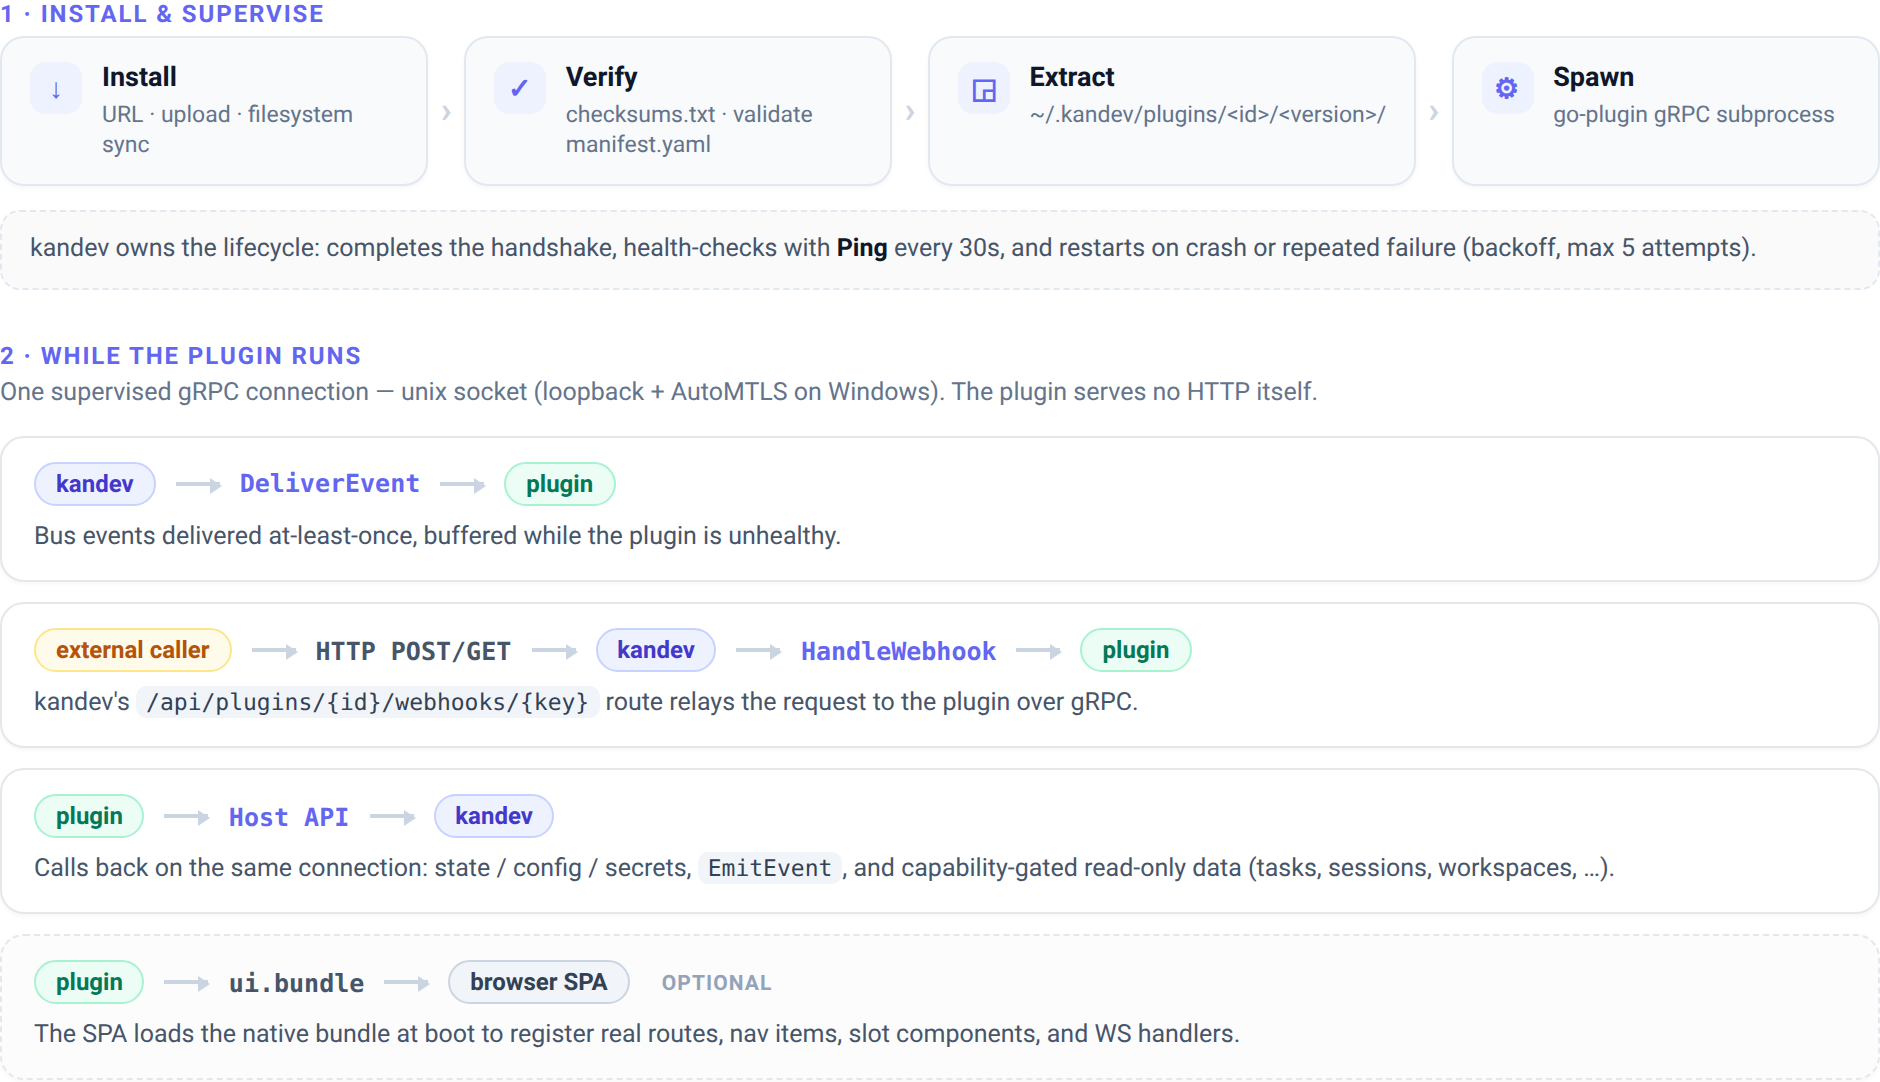
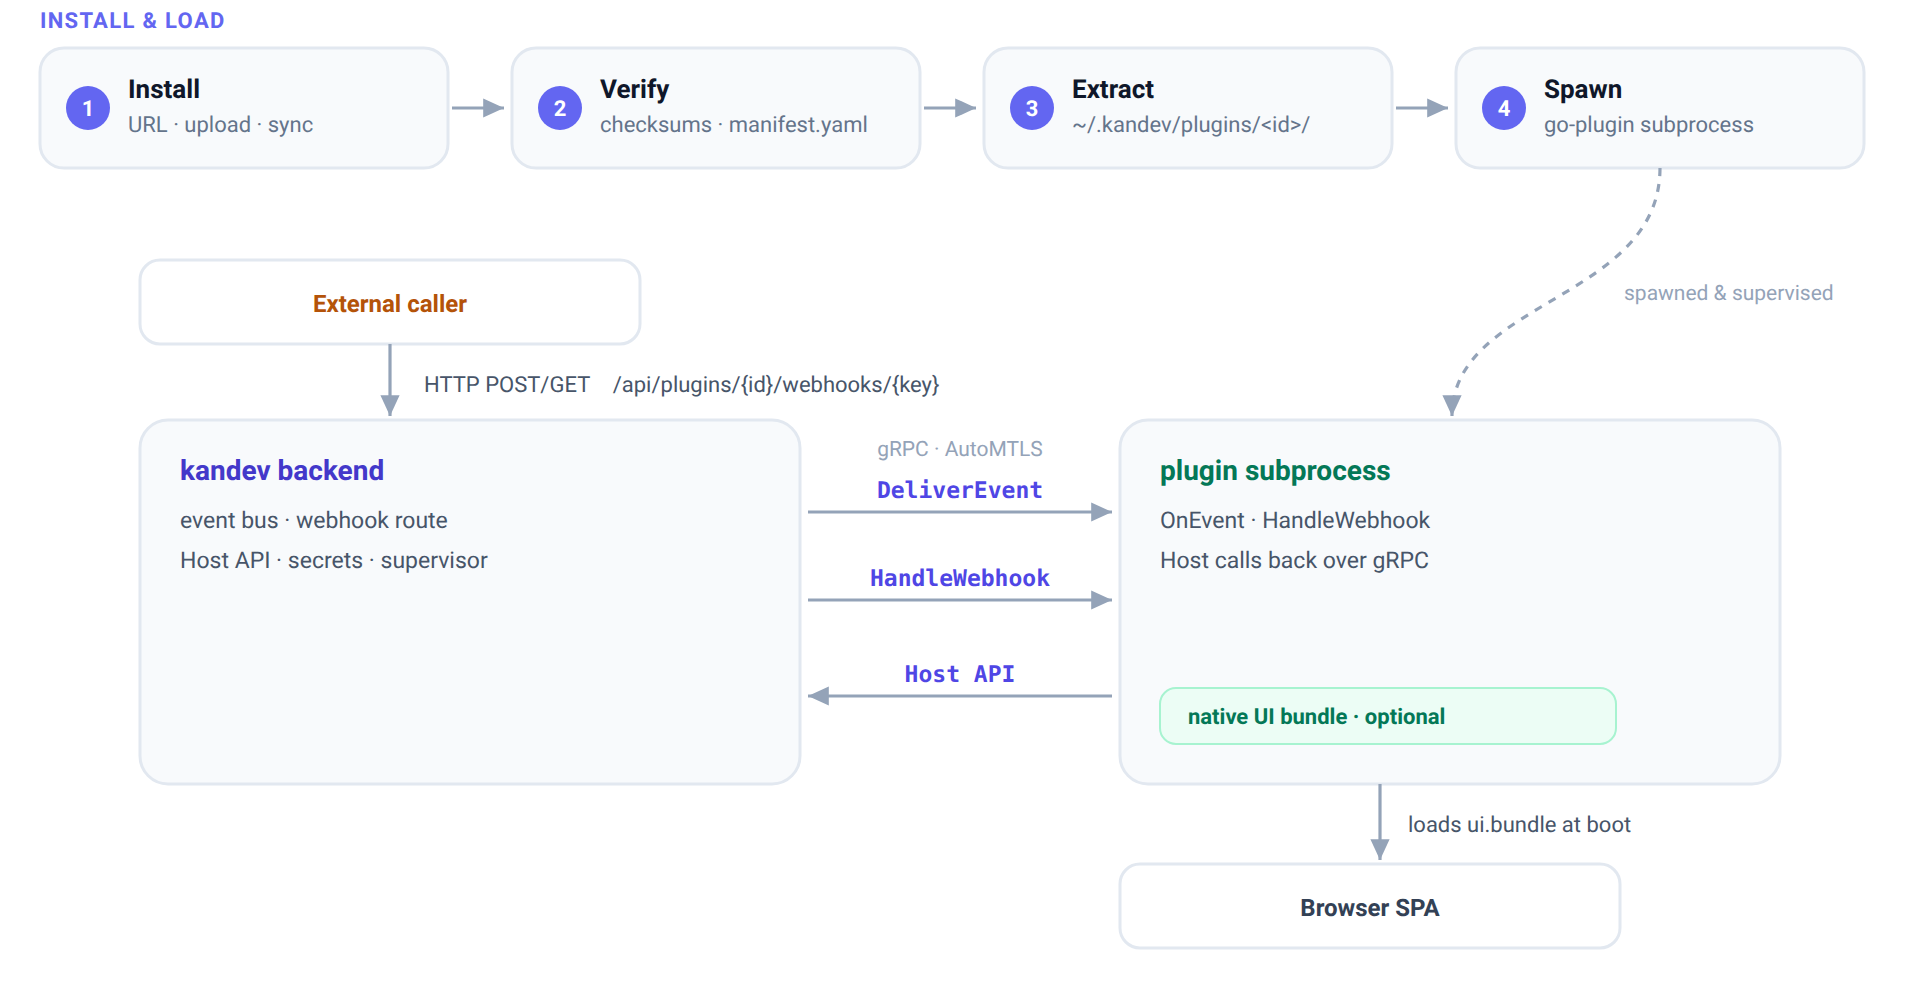
docs: make the how-it-works figure a real box-and-arrow diagram
The previous figure read as a list of rows. Replace it with a hand-drawn
SVG architecture diagram: the install pipeline feeds a spawned plugin
subprocess, then kandev and the plugin communicate over one gRPC
connection (DeliverEvent, HandleWebhook, and the plugin's Host API
callbacks), with the external webhook caller and the browser SPA as
edge nodes. Source lives in the capture spec's ARCH_HTML.

diff --git a/apps/web/e2e/tests/plugins/plugins-docs-screenshots.spec.ts b/apps/web/e2e/tests/plugins/plugins-docs-screenshots.spec.ts
@@ -41,63 +41,49 @@ const PLUGIN_ROUTE = process.env.DOCS_PLUGIN_ROUTE ?? "/plugins/e2e-hello";
 const SCREENSHOTS_DIR = path.resolve(__dirname, "../../../../../docs/screenshots");
 const VIEWPORT = { width: 1280, height: 860 };
 
-// Hand-authored "How it works" architecture diagram, rendered to
-// docs/screenshots/plugin-architecture.png (plugins.md embeds it). Kept as
-// HTML/CSS rather than mermaid so it reads as a designed figure.
+// Hand-authored "How it works" architecture diagram (SVG), rendered to
+// docs/screenshots/plugin-architecture.png (plugins.md embeds it). A designed
+// figure rather than mermaid so the boxes/arrows read as a real diagram.
 const ARCH_HTML = `<!doctype html><html><head><meta charset="utf-8" /><style>
-* { box-sizing: border-box; margin: 0; padding: 0; }
-body { background: #fff; padding: 30px; }
-#diagram { width: 940px; font-family: -apple-system, BlinkMacSystemFont, "Segoe UI", Roboto, Inter, "Helvetica Neue", Arial, sans-serif; color: #0f172a; background: #fff; }
-.phase { margin-bottom: 26px; } .phase:last-child { margin-bottom: 0; }
-.phase-label { font-size: 12px; font-weight: 700; letter-spacing: .08em; text-transform: uppercase; color: #6366f1; margin-bottom: 4px; }
-.phase-sub { font-size: 12.5px; color: #64748b; margin-bottom: 14px; }
-.pipeline { display: flex; align-items: stretch; gap: 6px; }
-.step { flex: 1; background: #f8fafc; border: 1px solid #e2e8f0; border-radius: 12px; padding: 12px 14px; display: flex; gap: 10px; align-items: flex-start; box-shadow: 0 1px 2px rgba(15,23,42,.04); }
-.step .ico { width: 26px; height: 26px; flex: none; border-radius: 8px; display: grid; place-items: center; background: #eef2ff; color: #6366f1; font-size: 14px; font-weight: 700; }
-.step-title { font-size: 13.5px; font-weight: 650; line-height: 1.25; }
-.step-sub { font-size: 11.5px; color: #64748b; margin-top: 2px; line-height: 1.3; }
-.chev { align-self: center; color: #cbd5e1; font-size: 18px; font-weight: 700; }
-.supervise-note { margin-top: 12px; font-size: 12.5px; color: #475569; line-height: 1.45; padding: 10px 14px; background: #fafafa; border: 1px dashed #e2e8f0; border-radius: 10px; }
-.supervise-note b { color: #0f172a; font-weight: 650; }
-.flows { display: flex; flex-direction: column; gap: 10px; }
-.flow { border: 1px solid #e5e7eb; border-radius: 12px; padding: 12px 16px; background: #fff; box-shadow: 0 1px 2px rgba(15,23,42,.04); }
-.flow.optional { border-style: dashed; background: #fcfcfd; }
-.actors { display: flex; align-items: center; gap: 10px; flex-wrap: wrap; }
-.chip { font-size: 12px; font-weight: 650; padding: 3px 10px; border-radius: 999px; border: 1px solid; white-space: nowrap; }
-.chip.k { background: #eef2ff; color: #4338ca; border-color: #c7d2fe; }
-.chip.p { background: #ecfdf5; color: #047857; border-color: #a7f3d0; }
-.chip.e { background: #fffbeb; color: #b45309; border-color: #fde68a; }
-.chip.b { background: #f1f5f9; color: #334155; border-color: #cbd5e1; }
-.arrow { display: inline-flex; align-items: center; }
-.arrow .line { width: 22px; height: 0; border-top: 2px solid #cbd5e1; position: relative; }
-.arrow .line::after { content: ""; position: absolute; right: -1px; top: -4px; border-left: 6px solid #cbd5e1; border-top: 4px solid transparent; border-bottom: 4px solid transparent; }
-.method { font-size: 12.5px; font-weight: 700; color: #6366f1; font-family: ui-monospace, SFMono-Regular, Menlo, monospace; }
-.method.plain { color: #475569; }
-.desc { font-size: 12.5px; color: #475569; margin-top: 7px; line-height: 1.45; }
-.desc code { font-family: ui-monospace, SFMono-Regular, Menlo, monospace; font-size: 11.5px; background: #f1f5f9; padding: 1px 5px; border-radius: 5px; color: #334155; }
-.opt-tag { font-size: 10.5px; font-weight: 700; text-transform: uppercase; letter-spacing: .05em; color: #94a3b8; margin-left: 6px; }
-</style></head><body><div id="diagram">
-<section class="phase"><div class="phase-label">1 · Install &amp; supervise</div>
-<div class="pipeline">
-<div class="step"><div class="ico">↓</div><div><div class="step-title">Install</div><div class="step-sub">URL · upload · filesystem sync</div></div></div>
-<div class="chev">›</div>
-<div class="step"><div class="ico">✓</div><div><div class="step-title">Verify</div><div class="step-sub">checksums.txt · validate manifest.yaml</div></div></div>
-<div class="chev">›</div>
-<div class="step"><div class="ico">◲</div><div><div class="step-title">Extract</div><div class="step-sub">~/.kandev/plugins/&lt;id&gt;/&lt;version&gt;/</div></div></div>
-<div class="chev">›</div>
-<div class="step"><div class="ico">⚙</div><div><div class="step-title">Spawn</div><div class="step-sub">go-plugin gRPC subprocess</div></div></div>
-</div>
-<div class="supervise-note">kandev owns the lifecycle: completes the handshake, health-checks with <b>Ping</b> every 30s, and restarts on crash or repeated failure (backoff, max 5 attempts).</div>
-</section>
-<section class="phase"><div class="phase-label">2 · While the plugin runs</div>
-<div class="phase-sub">One supervised gRPC connection — unix socket (loopback + AutoMTLS on Windows). The plugin serves no HTTP itself.</div>
-<div class="flows">
-<div class="flow"><div class="actors"><span class="chip k">kandev</span><span class="arrow"><span class="line"></span></span><span class="method">DeliverEvent</span><span class="arrow"><span class="line"></span></span><span class="chip p">plugin</span></div><div class="desc">Bus events delivered at-least-once, buffered while the plugin is unhealthy.</div></div>
-<div class="flow"><div class="actors"><span class="chip e">external caller</span><span class="arrow"><span class="line"></span></span><span class="method plain">HTTP POST/GET</span><span class="arrow"><span class="line"></span></span><span class="chip k">kandev</span><span class="arrow"><span class="line"></span></span><span class="method">HandleWebhook</span><span class="arrow"><span class="line"></span></span><span class="chip p">plugin</span></div><div class="desc">kandev's <code>/api/plugins/{id}/webhooks/{key}</code> route relays the request to the plugin over gRPC.</div></div>
-<div class="flow"><div class="actors"><span class="chip p">plugin</span><span class="arrow"><span class="line"></span></span><span class="method">Host API</span><span class="arrow"><span class="line"></span></span><span class="chip k">kandev</span></div><div class="desc">Calls back on the same connection: state / config / secrets, <code>EmitEvent</code>, and capability-gated read-only data (tasks, sessions, workspaces, …).</div></div>
-<div class="flow optional"><div class="actors"><span class="chip p">plugin</span><span class="arrow"><span class="line"></span></span><span class="method plain">ui.bundle</span><span class="arrow"><span class="line"></span></span><span class="chip b">browser SPA</span><span class="opt-tag">optional</span></div><div class="desc">The SPA loads the native bundle at boot to register real routes, nav items, slot components, and WS handlers.</div></div>
-</div></section>
-</div></body></html>`;
+* { margin:0; padding:0; box-sizing:border-box; }
+body { background:#fff; padding:28px; }
+svg { font-family:-apple-system, BlinkMacSystemFont, "Segoe UI", Roboto, Inter, Arial, sans-serif; }
+.box { fill:#fff; stroke:#e2e8f0; stroke-width:1.5; }
+.box-soft { fill:#f8fafc; stroke:#e2e8f0; stroke-width:1.5; }
+.lane { fill:#f8fafc; stroke:#e2e8f0; stroke-width:1.5; }
+.t-title { font-size:14px; font-weight:700; }
+.t-step { font-size:13px; font-weight:650; fill:#0f172a; }
+.t-sub { font-size:11px; fill:#64748b; }
+.t-body { font-size:11.5px; fill:#475569; }
+.badge { fill:#6366f1; } .badge-t { fill:#fff; font-size:11px; font-weight:700; }
+.edge { stroke:#94a3b8; stroke-width:1.6; fill:none; }
+.edge-dotted { stroke:#94a3b8; stroke-width:1.6; fill:none; stroke-dasharray:4 4; }
+.lbl { font-size:11.5px; font-weight:700; fill:#4f46e5; font-family:ui-monospace, SFMono-Regular, Menlo, monospace; paint-order:stroke; stroke:#fff; stroke-width:5px; stroke-linejoin:round; }
+.lbl-p { font-size:11px; fill:#475569; paint-order:stroke; stroke:#fff; stroke-width:5px; stroke-linejoin:round; }
+.lbl-mut { font-size:10.5px; fill:#94a3b8; paint-order:stroke; stroke:#fff; stroke-width:4px; stroke-linejoin:round; }
+.chip-p { fill:#ecfdf5; stroke:#a7f3d0; } .chip-p-t { font-size:11px; font-weight:650; fill:#047857; }
+</style></head><body>
+<svg id="diagram" width="960" height="500" viewBox="0 0 960 500">
+<defs><marker id="ah" markerWidth="9" markerHeight="9" refX="6.5" refY="3" orient="auto"><path d="M0,0 L6.5,3 L0,6 z" fill="#94a3b8"/></marker></defs>
+<text x="20" y="14" class="t-sub" style="font-weight:700;fill:#6366f1;letter-spacing:.06em">INSTALL &amp; LOAD</text>
+<rect x="20" y="24" width="204" height="60" rx="12" class="box-soft"/><circle cx="44" cy="54" r="11" class="badge"/><text x="44" y="58" text-anchor="middle" class="badge-t">1</text><text x="64" y="49" class="t-step">Install</text><text x="64" y="66" class="t-sub">URL · upload · sync</text>
+<rect x="256" y="24" width="204" height="60" rx="12" class="box-soft"/><circle cx="280" cy="54" r="11" class="badge"/><text x="280" y="58" text-anchor="middle" class="badge-t">2</text><text x="300" y="49" class="t-step">Verify</text><text x="300" y="66" class="t-sub">checksums · manifest.yaml</text>
+<rect x="492" y="24" width="204" height="60" rx="12" class="box-soft"/><circle cx="516" cy="54" r="11" class="badge"/><text x="516" y="58" text-anchor="middle" class="badge-t">3</text><text x="536" y="49" class="t-step">Extract</text><text x="536" y="66" class="t-sub">~/.kandev/plugins/&lt;id&gt;/</text>
+<rect x="728" y="24" width="204" height="60" rx="12" class="box-soft"/><circle cx="752" cy="54" r="11" class="badge"/><text x="752" y="58" text-anchor="middle" class="badge-t">4</text><text x="772" y="49" class="t-step">Spawn</text><text x="772" y="66" class="t-sub">go-plugin subprocess</text>
+<line x1="226" y1="54" x2="252" y2="54" class="edge" marker-end="url(#ah)"/><line x1="462" y1="54" x2="488" y2="54" class="edge" marker-end="url(#ah)"/><line x1="698" y1="54" x2="724" y2="54" class="edge" marker-end="url(#ah)"/>
+<path d="M830,84 C830,150 726,150 726,208" class="edge-dotted" marker-end="url(#ah)"/><text x="812" y="150" class="lbl-mut">spawned &amp; supervised</text>
+<rect x="70" y="130" width="250" height="42" rx="10" class="box" fill="#fffbeb" stroke="#fde68a"/><text x="195" y="156" text-anchor="middle" style="font-size:12px;font-weight:650;fill:#b45309">External caller</text>
+<path d="M195,172 L195,208" class="edge" marker-end="url(#ah)"/><text x="212" y="196" class="lbl-p">HTTP POST/GET&#8195;/api/plugins/{id}/webhooks/{key}</text>
+<rect x="70" y="210" width="330" height="182" rx="14" class="lane"/><text x="90" y="240" class="t-title" fill="#4338ca">kandev backend</text><text x="90" y="264" class="t-body">event bus · webhook route</text><text x="90" y="284" class="t-body">Host API · secrets · supervisor</text>
+<rect x="560" y="210" width="330" height="182" rx="14" class="lane"/><text x="580" y="240" class="t-title" fill="#047857">plugin subprocess</text><text x="580" y="264" class="t-body">OnEvent · HandleWebhook</text><text x="580" y="284" class="t-body">Host calls back over gRPC</text>
+<rect x="580" y="344" width="228" height="28" rx="8" class="chip-p"/><text x="594" y="362" class="chip-p-t">native UI bundle · optional</text>
+<text x="480" y="228" text-anchor="middle" class="lbl-mut">gRPC · AutoMTLS</text>
+<line x1="404" y1="256" x2="556" y2="256" class="edge" marker-end="url(#ah)"/><text x="480" y="249" text-anchor="middle" class="lbl">DeliverEvent</text>
+<line x1="404" y1="300" x2="556" y2="300" class="edge" marker-end="url(#ah)"/><text x="480" y="293" text-anchor="middle" class="lbl">HandleWebhook</text>
+<line x1="556" y1="348" x2="404" y2="348" class="edge" marker-end="url(#ah)"/><text x="480" y="341" text-anchor="middle" class="lbl">Host API</text>
+<rect x="560" y="432" width="250" height="42" rx="10" class="box"/><text x="685" y="458" text-anchor="middle" style="font-size:12px;font-weight:650;fill:#334155">Browser SPA</text>
+<path d="M690,392 L690,430" class="edge" marker-end="url(#ah)"/><text x="704" y="416" class="lbl-p">loads ui.bundle at boot</text>
+</svg></body></html>`;
 
 /** Let transient success toasts auto-dismiss so they don't sit in captures. */
 async function waitForToastsGone(page: Page): Promise<void> {